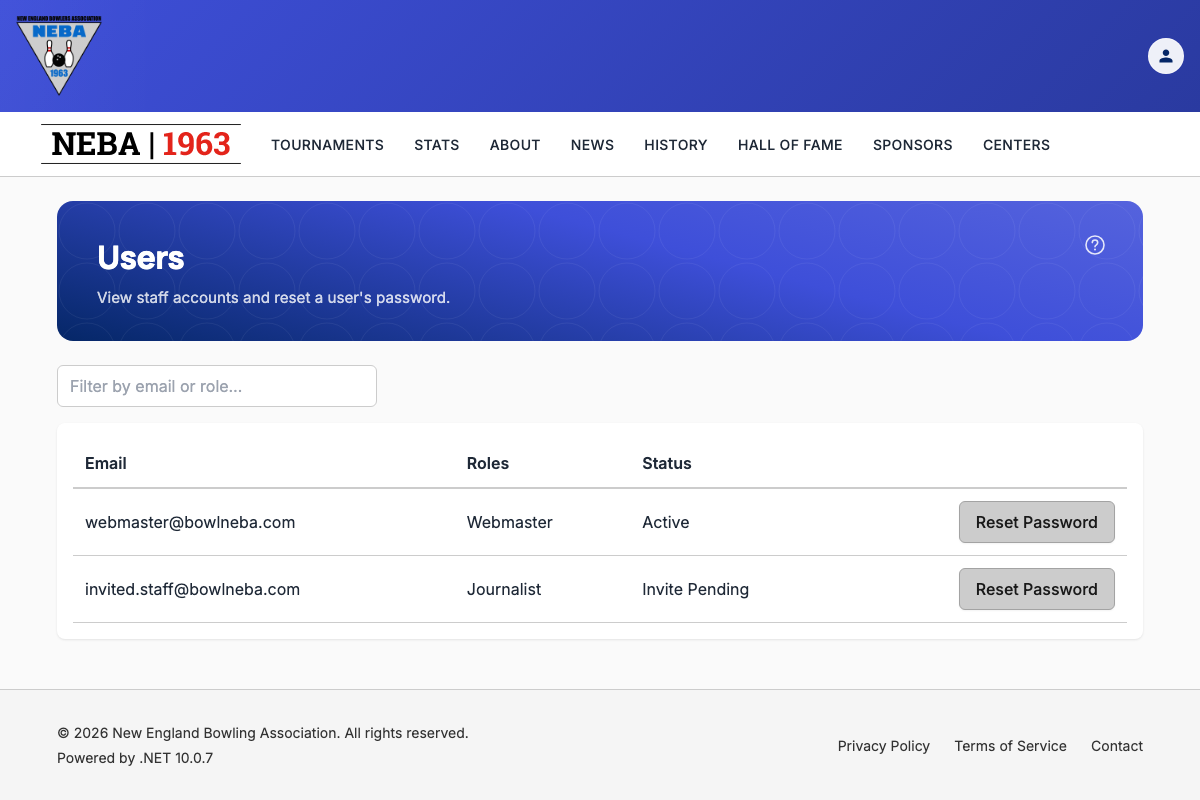
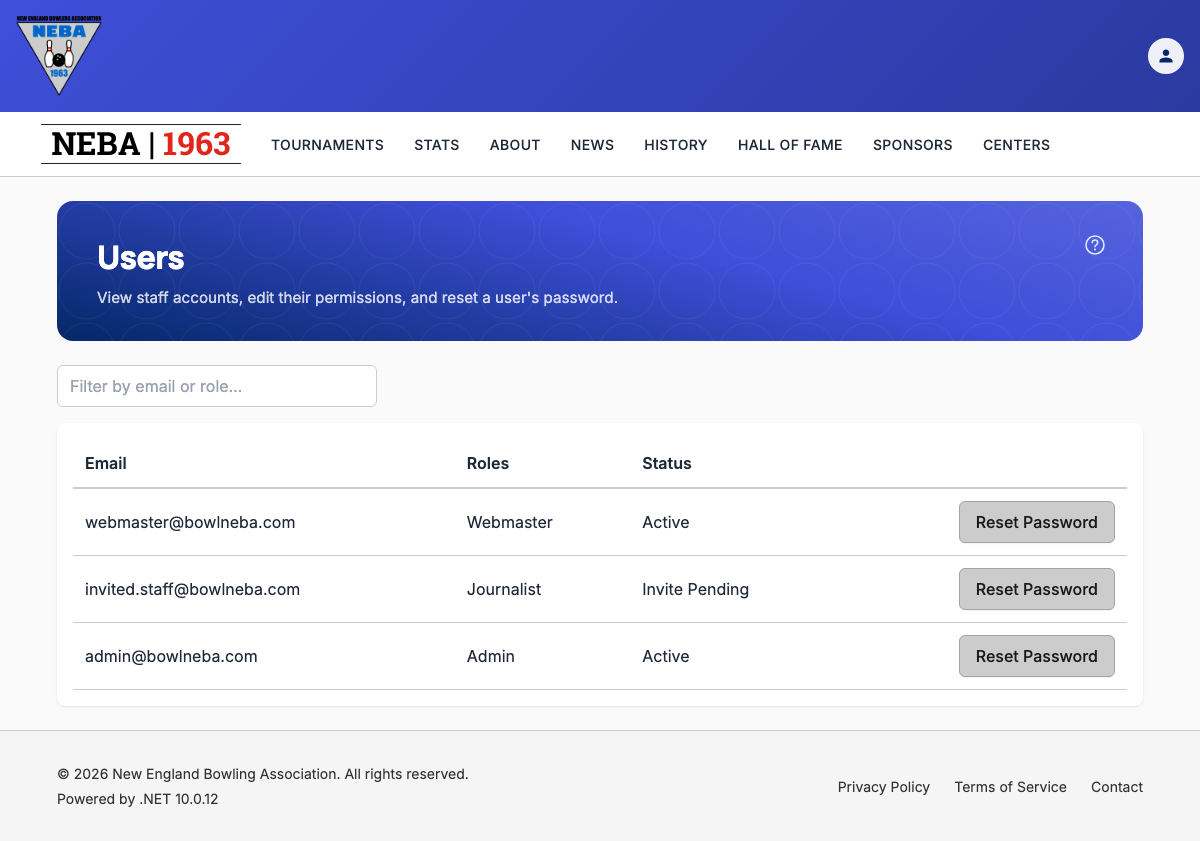
Document permission overrides
New Edit User help page; Create User and View Users pages updated, with
regenerated screenshots.

diff --git a/docs/help/edit-user.md b/docs/help/edit-user.md
@@ -1,0 +1,56 @@
+# Edit a User's Permissions
+
+Lets an admin add or remove individual permissions for one staff member, on top of what their roles give. Each permission has three settings: **Default** (their roles decide), **Added** (always allowed), and **Removed** (never allowed, even if a role allows it).
+
+## Prerequisites
+
+You need the `System.EditUser` permission, enforced via the dynamic `Permission:System.EditUser` policy — see the `Permission:{value}` row in [`docs/policies/README.md`](../policies/README.md). If you don't have it, no edit icon appears on the Users page, and `/account/users/{userId}/edit` shows a "you don't have permission" message instead of the form.
+
+You can only give someone a permission you hold yourself. Permissions you don't hold can still be set to **Removed**, but **Added** is disabled for them.
+
+## Steps
+
+1. Open the **Users** page (see [View Users](list-users.md)) and click the pencil icon on the user's row. Admin accounts have no edit icon.
+
+   ![Users table with the edit icon on each row](images/edit-user/users-list.png)
+
+2. The **Edit User** page shows the user's email, roles, and status, then a table of every permission:
+   - **Granted by role** — the user's roles that allow the permission.
+   - **Override** — the three-way switch: **Added** (left, green check), **Default** (middle, gray dash), **Removed** (right, red cross).
+   - **Result** — whether the user can do this after your change, **Allowed** or **Not allowed**.
+
+   Rows you've changed from Default get a blue edge.
+
+   ![Edit User page with the permission table](images/edit-user/edit-form.png)
+
+3. Set the switches you want to change, then click **Save changes**. Click **Cancel** to leave without saving.
+
+   If you've changed anything and try to leave the page before saving, you're asked to confirm first ("Discard unsaved changes?" with **Leave**/**Stay**, or your browser's own prompt for a tab close or refresh).
+
+## What happens after you save
+
+- **Success**: a "User Updated" toast confirms the change and you return to the Users page. The change takes effect the next time the user's session refreshes, within about 15 minutes. They don't need to sign in again.
+- **Failure**: an "Unable to Save User" message explains what went wrong, and the form keeps your changes so you can fix it and try again.
+
+## Special cases
+
+- **Admin accounts** have every permission, so overrides don't apply. The page shows a short note and no switches.
+- **Your own account** is read-only. Ask another admin to change your permissions.
+- Roles, email, and other details can't be changed from this page.
+
+## Troubleshooting
+
+| What you see | What it means |
+| --- | --- |
+| No edit icon on the Users page, or a "you don't have permission" message on the edit page | You don't hold `System.EditUser` — ask an admin to grant it if you believe you should have it. |
+| "This user could not be found." | The user no longer exists. Return to the Users page and refresh. |
+| **Added** is greyed out on a permission | You don't hold that permission, so you can't give it to someone else. |
+| "You can't change your own permission overrides." | You opened your own account. Ask another admin. |
+| "Admins have every permission, so permission overrides don't apply to them." | The user holds the Admin role. Overrides can't be set on Admin accounts. |
+| "Unable to Save User" with another message | The server rejected the change; the message describes the problem. Nothing was saved. |
+
+## Related
+
+- [View Users](list-users.md) — where the edit icon lives.
+- [Create a User](create-user.md) — set overrides when you first invite someone.
+- [`docs/policies/README.md`](../policies/README.md) — the `Permission:{value}` policy this action requires and how it's evaluated.

diff --git a/docs/help/create-user.md b/docs/help/create-user.md
@@ -19,13 +19,16 @@ You need the `System.CreateUser` permission, enforced via the dynamic `Permissio
 
    ![Blank Create User form](images/create-user/create-form.png)
 
-3. Click **Send Invite** to create the account and email the invite, or navigate away to discard.
+3. Optionally, use the **Permission overrides** table to change one permission for this person only. Each permission has a three-way switch: **Added** (always allowed), **Default** (their roles decide), or **Removed** (never allowed, even if a role allows it). The **Granted by role** and **Result** columns update as you tick roles. You can only add a permission you hold yourself. See [Edit a User's Permissions](edit-user.md) for the full explanation.
+
+4. Click **Send Invite** to create the account and email the invite, or navigate away to discard.
 
    If you've filled in anything and try to leave the page before submitting — clicking away to another page, or closing/refreshing the browser tab — you're asked to confirm first ("Discard unsaved changes?" with **Leave**/**Stay** options, or your browser's own "leave site?" prompt for a tab close/refresh).
 
 ## What happens after you confirm
 
 - **Success**: an "Invite Sent" message confirms the account was created, and the form clears so you can invite another person. The invitee receives an email with a **Set Your Password** button/link.
+- **Overrides not saved**: a "Permission Overrides Not Saved" warning means the account was created and the invite sent, but the overrides didn't apply. Open the user from the Users list and set them with Edit.
 - **Failure**: an "Unable to Create User" message explains what went wrong (see Troubleshooting below) — nothing is saved, and the form stays filled in so you can fix it and try again.
 
 ## Setting the password (invite flow)
@@ -47,6 +50,8 @@ On success, the token is consumed (it can't be reused), the account's email is m
 | --- | --- |
 | No "Create User" option in the account menu, or a "you don't have permission" message on `/account/create-user` | You don't hold `System.CreateUser` — ask an admin to grant it if you believe you should have it. |
 | "An account with this email already exists." | Someone has already been invited or registered with that email. Use a different email, or ask an admin to resend the existing invite. |
+| "You can't grant permissions you don't hold: ..." | An override adds a permission you don't hold. Set it to Default, or ask an admin who holds it. |
+| "Permission overrides unavailable" (above the form) | The role list didn't load, so overrides can't be set here. You can still send the invite and set them later with Edit. |
 | "At least one role is required." | No role checkbox was selected. Pick at least one and try again. |
 | "The Admin role cannot be granted through this endpoint." or "One or more roles are not recognized." | This shouldn't happen from the form itself, since only valid, non-Admin roles are offered as checkboxes — if you see it, try again or contact support. |
 | Any other "Unable to Create User" message | The server rejected the request; the message describes the specific problem. The account was not created — correct the issue and submit again. |
@@ -55,5 +60,6 @@ On success, the token is consumed (it can't be reused), the account's email is m
 ## Related
 
 - [View Users](list-users.md) — see every account you've created, including its status.
+- [Edit a User's Permissions](edit-user.md) — change a user's permission overrides after the account exists.
 - [Reset a User's Password](reset-password.md) — forces a fresh set-password link for an existing user, using the same mechanism.
 - [`docs/policies/README.md`](../policies/README.md) — the `Permission:{value}` policy this action requires and how it's evaluated.
